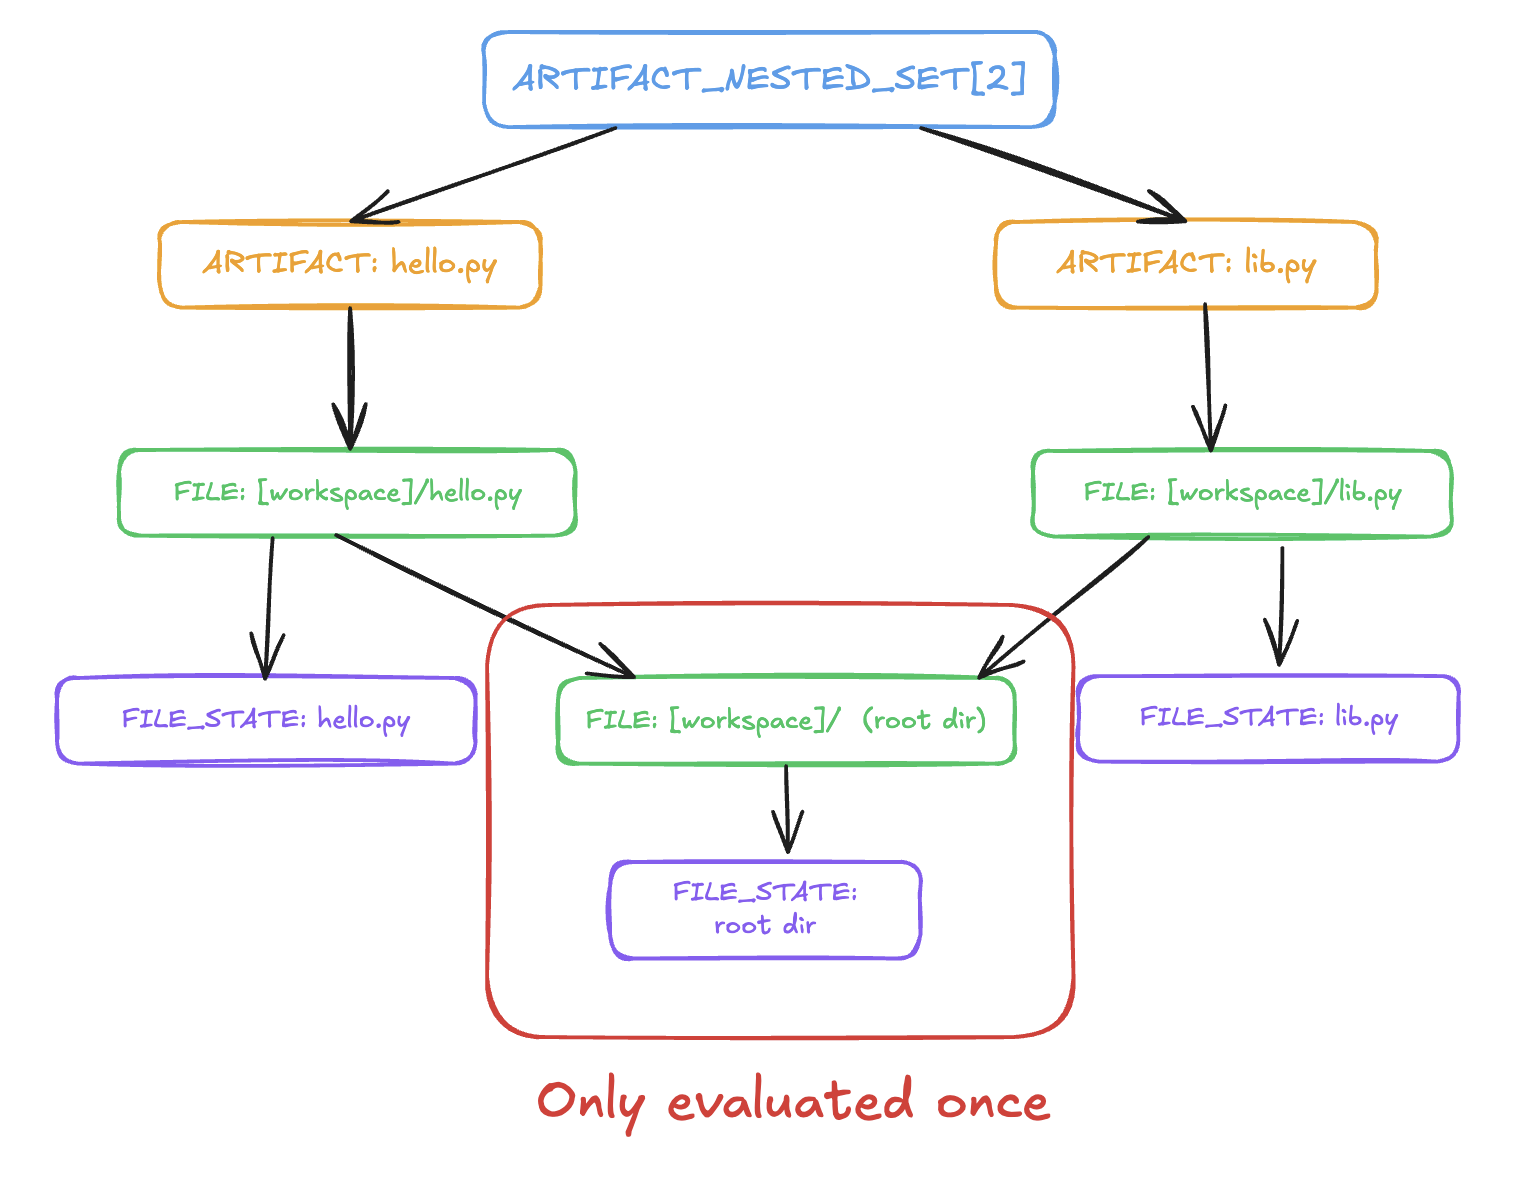
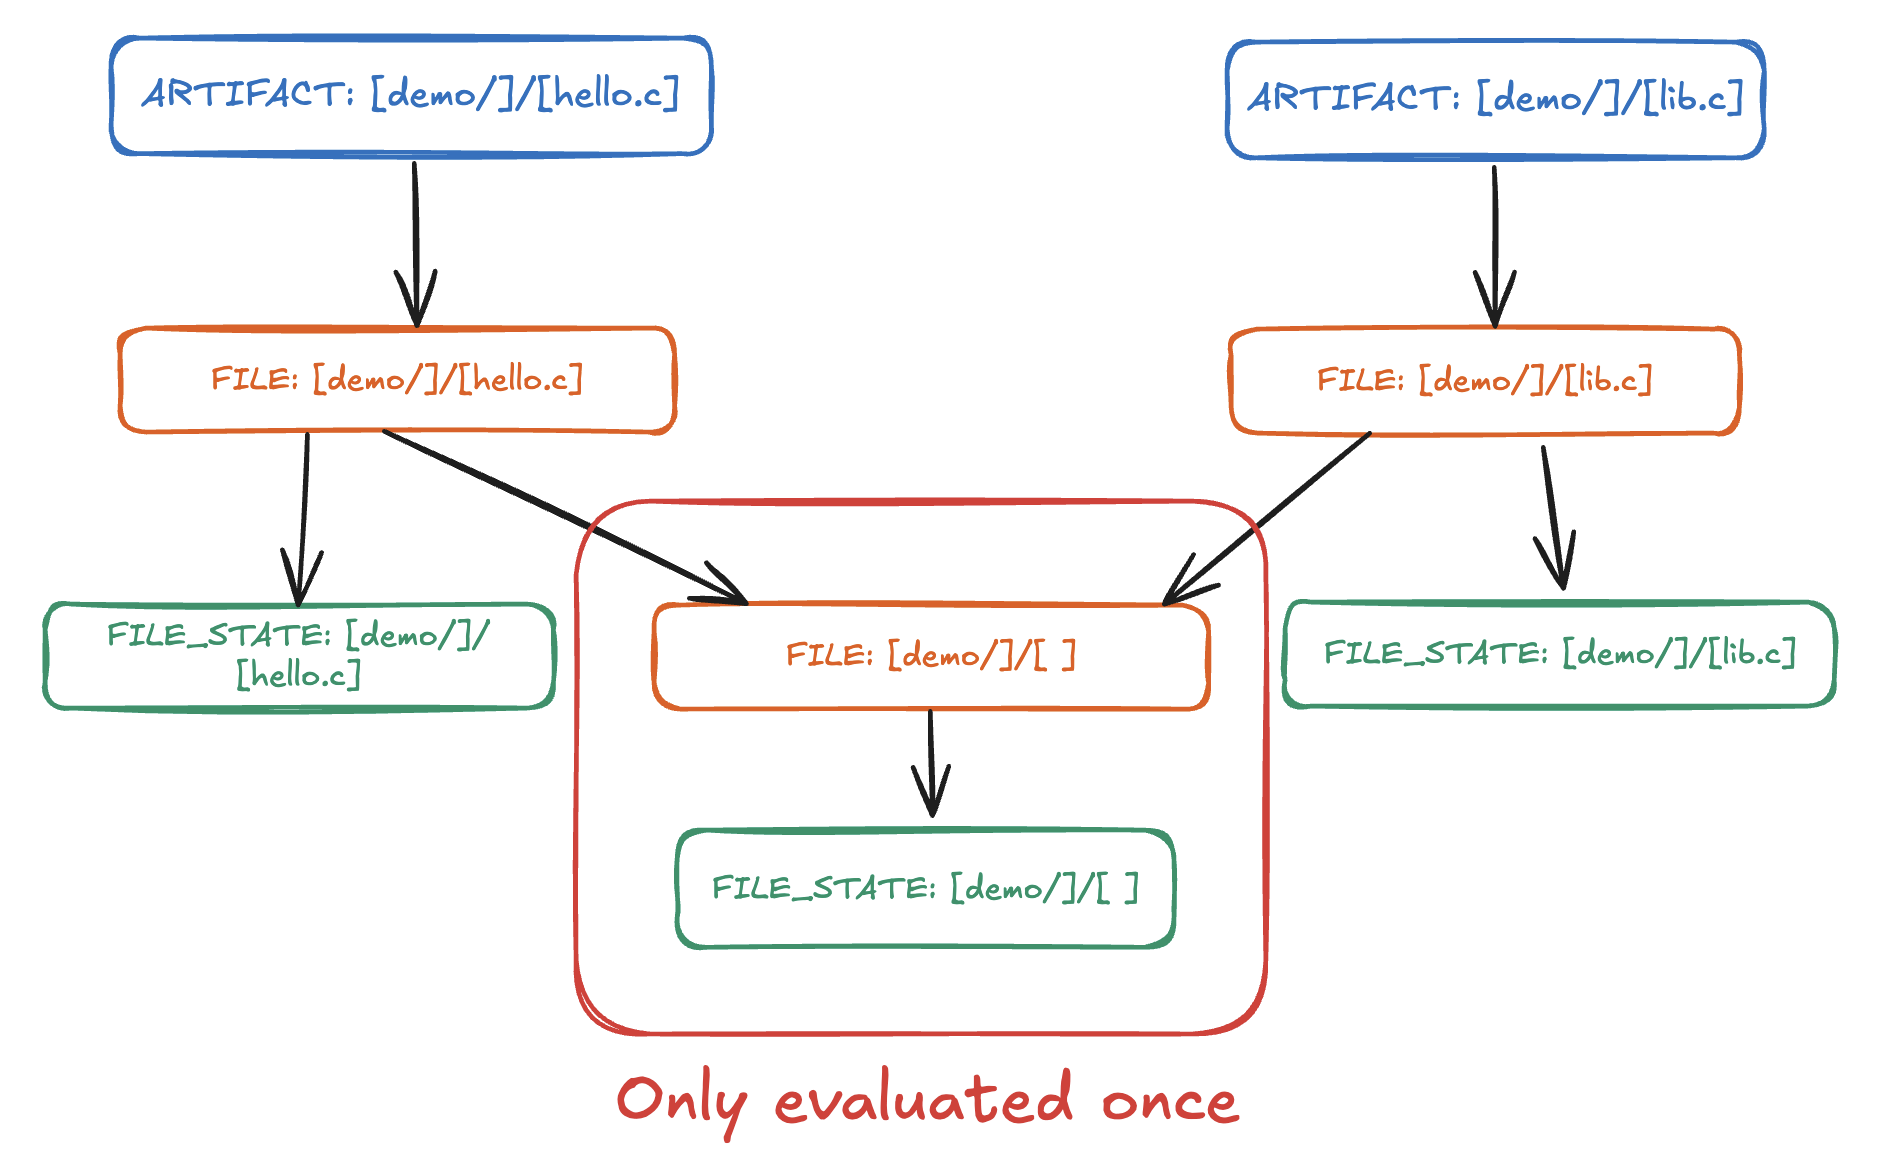
Use C version for Skyframe

Changed region(s): [[0.0, 0.0, 0.9817, 0.988]]

diff --git a/content/blog/2026-05-06-bazel-skyframe.md b/content/blog/2026-05-06-bazel-skyframe.md
@@ -6,7 +6,7 @@ title = 'Bazel Skyframe explained'
 
 <!-- https://excalidraw.com/#json=_Sqq8GAFYKdgnXSGdhCvn,0kM9YnXrRGWFhX0leKCNlQ -->
 
-The term "Skyframe" comes up often as you dig deeper into Bazel internals. However, I found the available explanations confusing and found myself re-reading the [Skyframe documentation](https://bazel.build/reference/skyframe) multiple times. I've looked around the source code just enough to get the essence of it, so this post summarizes what I've learned.
+The term "Skyframe" comes up often as you dig deeper into Bazel internals. However, the available explanations are pretty confusing and I found myself re-reading the [Skyframe documentation](https://bazel.build/reference/skyframe) multiple times. I've looked around the source code just enough to get the essence of it, so this post summarizes what I've learned.
 
 We'll explore what Skyframe is and how it's implemented (at a very high level). Basic Bazel knowledge is assumed. For the sake of simplicity, we'll just walk through the local machine worker scenario (no RBE).
 
@@ -24,43 +24,48 @@ BUILD files establish explicit DAG relationships between build targets. The fram
 
 **Incremental**
 
-Each node in the DAG is evaluated step by step, and the result is cached. Bazel has mechanisms to determine what changed since the last build and only rebuild those.
+Each node in the DAG is evaluated step by step, and the result is cached. Bazel has mechanisms to determine what changed since the last build and only rebuild those. In other words, the 2nd build is "incremental" relative to the cache of the 1st build.
 
 **Parallel**
 
-It's common for even a simple target to depend on hundreds of implicit dependencies. Running them sequentially is not an option for a build tool, so Skyframe evaluates independent nodes in parallel.
+It's common for even a simple target to depend on dozens of implicit dependencies. Building them sequentially is not an option for a build tool, so Skyframe evaluates independent nodes in parallel.
 
 Let's look at a hello world example to explore this further.
 
 ## Repo setup
 
-I prepared a demo Bazel repo here: https://github.com/jumbosushi/bazel-hello-world-py
+I prepared a demo Bazel repo here: https://github.com/jumbosushi/bazel-hello-world-c
 
-The only BUILD.bazel builds a `py_binary` target that depends on two files:
+The only BUILD.bazel builds a `cc_binary` target that depends on few files:
 ```txt
-load("@rules_python//python:py_binary.bzl", "py_binary")
+load("@rules_cc//cc:cc_binary.bzl", "cc_binary")
+load("@rules_cc//cc:cc_library.bzl", "cc_library")
 
-py_binary(
+cc_library(
+    name = "lib",
+    srcs = ["lib.c"],
+    hdrs = ["lib.h"],
+)
+
+cc_binary(
     name = "hello",
-    srcs = [
-        "hello.py",
-        "lib.py",
-    ],
+    srcs = ["hello.c"],
+    deps = [":lib"],
 )
 ```
 
 Here's what it looks like when you run it:
 ```txt
 $ bazel run //:hello
-INFO: Analyzed target //:hello (90 packages loaded, 3009 targets configured).
+INFO: Analyzed target //:hello (89 packages loaded, 534 targets configured).
 INFO: Found 1 target...
 Target //:hello up-to-date:
   bazel-bin/hello
-INFO: Elapsed time: 6.105s, Critical Path: 0.41s
-INFO: 9 processes: 9 internal.
-INFO: Build completed successfully, 9 total actions
+INFO: Elapsed time: 1.460s, Critical Path: 0.22s
+INFO: 14 processes: 10 internal, 4 darwin-sandbox.
+INFO: Build completed successfully, 14 total actions
 INFO: Running command line: bazel-bin/hello
-hello world!
+Hello World!
 ```
 
 Skyframe DAG is available from the following command:
@@ -68,7 +73,7 @@ Skyframe DAG is available from the following command:
 bazel dump --skyframe deps
 ```
 
-Even in this hello world example, the dump file is >160K lines. Here's a small subset of the graph that's related to the local files in the repo. We'll be using this subset starting with `ARTIFACT_NESTED_SET` to walk through how Skyframe might execute it:
+Even in this hello world example, the dump file is >60K lines. To make it more manageable, we'll be using this subset of the graph that's related to reading local files starting with `ARTIFACT` to walk through how Skyframe might execute it:
 
 ![Skyframe DAG subset](/images/2026-05-06-bazel-skyframe/dag-subset.png)
 
@@ -84,53 +89,61 @@ The way I understand it, Skyframe execution roughly consists of three components
 Each node in the graph wraps a SkyValue and is referenced by a SkyKey. The Evaluator uses the SkyKey's associated pure function (called a SkyFunction) to build the SkyValue. Every type of computation done by Skyframe is implemented as SkyFunction (there's [87 listed](https://cs.opensource.google/bazel/bazel/+/master:src/main/java/com/google/devtools/build/lib/skyframe/SkyFunctions.java;l=120;drc=8584d864876062a15dd11423717b0412f3d1fd8d?q=ARTIFACT_NESTED_SET&sq=&ss=bazel%2Fbazel) as of v9.0.0).
 
 The simplest SkyFunction I found was [`FileStateFunction`](https://cs.opensource.google/bazel/bazel/+/master:src/main/java/com/google/devtools/build/lib/skyframe/FileStateFunction.java;l=35?q=FileStateFunction&ss=bazel%2Fbazel) which essentially returns file content. To map to the definitions
-- SkyKey: `"FILE_STATE{/workspace/hello.py}"` (a pair of type & name)
-- SkyValue:  The file content of the given path at `/workspace/hello.py`
+- SkyKey: `"FILE_STATE{demo/hello.c}"` (a pair of type & name)
+- SkyValue:  The file content of the given path at `demo/hello.c`
 - SkyFunction: `FileStateFunction`
 
 A SkyFunction can also call other SkyFunctions (e.g., `ARTIFACT` calls `FILE` in our subgraph). In fact, when we call `bazel build //...`, Bazel passes the `//...` pattern to [TargetPatternPhaseFunction](https://cs.opensource.google/bazel/bazel/+/master:src/main/java/com/google/devtools/build/lib/skyframe/TargetPatternPhaseFunction.java) during the loading phase, which is the starting point for recursively constructing the DAG.
 
 ## Evaluation model
 
-Each build target and its dependencies are represented as DAG nodes. A node can be in one of three states: ready, waiting, and done. Each node also has a counter tracking how many dependencies it needs to wait for, which determines state transitions. When all dependencies are resolved and the counter is 0, the node is considered as `ready`. Evaluator enqueues the `ready` nodes to the Executor, then the Executor runs the node's SkyFunction `.compute()` method. The state then transitions to `done` after the `.compute()` call returns.
+Each build target and its dependencies are represented as DAG nodes. A node can be in one of three states: `READY`, `WAITING`, and `DONE`. Each node also has a counter tracking how many dependencies it needs to wait for, which determines state transitions. When all dependencies are resolved and the counter is 0, the node is considered as `READY`. Evaluator enqueues the `READY` nodes to the Executor, then the Executor runs the node's SkyFunction `.compute()` method. The state then transitions to `DONE` after the `.compute()` call returns.
 
-The interesting behavior in Skyframe is the "restart". On a first pass, a node might be evaluated but it may need to wait for its dependency to be evaluated first (e.g. symlink target needs to be resolved before the symlink itself). In this case, Skyframe sets the parent node state to `waiting`. When the dependency's state transitions to `done`, evaluator uses the reverse dependency edge to "signal" the parent which decrements the dependency counter. When the counter reaches 0, the parent node is enqueued again. Eventually, the parent node will "restart" and be evaluated again with complete dependencies available to run its own `.compute` step.
+The interesting behavior in Skyframe is the "restart". On a first pass, a node might be evaluated but it may need to wait for its dependency to be evaluated first (e.g. symlink target needs to be resolved before the symlink itself). In this case, Skyframe sets the parent node state to `WAITING`. When the dependency's state transitions to `DONE`, evaluator uses the reverse dependency edge to "signal" the parent which decrements the dependency counter. When the counter reaches 0, the parent node is enqueued again. Eventually, the parent node will "restart" and be evaluated again with complete dependencies available to run its own `.compute` step.
 
 This part is complicated! Let's try to examine this behavior in a simplified code.
 
 ## Simplified Python code
 
-I created a [skyframe.py gist](https://gist.github.com/jumbosushi/cdde35941cb4de3e73f8d157c9145253) that emulates the Skyframe execution model in a simplified way. From the example above, let's examine how a sub-graph from the `"FILE: [workspace]/lib.py"` node might be evaluated (in a single-threaded environment) using this code:
+I created a [skyframe.py gist](https://gist.github.com/jumbosushi/1e53dacfb765f2772f54e24db3909c3c) that emulates the Skyframe execution model in a simplified way. From the example above, let's examine how a sub-graph from the `"ARTIFACT"` node might be evaluated (in a single-threaded environment) using this code:
 ```txt
-...
-[5] FILE:/workspace/lib.py  [dequeued]
-      enqueued FILE_STATE:/workspace/lib.py
-      -> FILE:/workspace/lib.py is WAITING
-      waiting on 2 deps: [FILE:/workspace/, FILE_STATE:/workspace/lib.py]
-[6] FILE:/workspace/  [dequeued]
-      enqueued FILE_STATE:/workspace/
-      -> FILE:/workspace/ is WAITING
-      waiting on 1 deps: [FILE_STATE:/workspace/]
-...
-[8] FILE_STATE:/workspace/lib.py  [dequeued]
-      done: FileStateValue('/workspace/lib.py', content='bytes(/workspace/lib.py)')
-      signal FILE:/workspace/lib.py (1 remaining)
-[9] FILE_STATE:/workspace/  [dequeued]
-      done: FileStateValue('/workspace/', content='bytes(/workspace/)')
-      signal FILE:/workspace/ (0 remaining)
-      -> FILE:/workspace/ is READY (enqueued)
-[10] FILE:/workspace/  [dequeued]
-      done: FileValue('/workspace/')
-      signal FILE:/workspace/hello.py (0 remaining)
-      -> FILE:/workspace/hello.py is READY (enqueued)
-      signal FILE:/workspace/lib.py (0 remaining)
-      -> FILE:/workspace/lib.py is READY (enqueued)
+============================================================
+Evaluating ArtifactKey
+============================================================
+      enqueued ARTIFACT:hello.c
+[1] ARTIFACT:hello.c  [dequeued]
+      enqueued FILE:demo/hello.c
+      -> ARTIFACT:hello.c is WAITING
+      waiting on 1 deps: [FILE:demo/hello.c]
+[2] FILE:demo/hello.c  [dequeued]
+      enqueued FILE:demo/
+      enqueued FILE_STATE:demo/hello.c
+      -> FILE:demo/hello.c is WAITING
+      waiting on 2 deps: [FILE:demo/, FILE_STATE:demo/hello.c]
+[3] FILE:demo/  [dequeued]
+      enqueued FILE_STATE:demo/
+      -> FILE:demo/ is WAITING
+      waiting on 1 deps: [FILE_STATE:demo/]
+[4] FILE_STATE:demo/hello.c  [dequeued]
+      done: FileStateValue('demo/hello.c', content='bytes(demo/hello.c)')
+      signal FILE:demo/hello.c (1 remaining)
+[5] FILE_STATE:demo/  [dequeued]
+      done: FileStateValue('demo/', content='bytes(demo/)')
+      signal FILE:demo/ (0 remaining)
+      -> FILE:demo/ is READY (enqueued)
+[6] FILE:demo/  [dequeued]
+      done: FileValue('demo/')
+      signal FILE:demo/hello.c (0 remaining)
+      -> FILE:demo/hello.c is READY (enqueued)
+[7] FILE:demo/hello.c  [dequeued]
+      done: FileValue('demo/hello.c')
+      signal ARTIFACT:hello.c (0 remaining)
+      -> ARTIFACT:hello.c is READY (enqueued)
+[8] ARTIFACT:hello.c  [dequeued]
+      done: ArtifactValue('hello.c')
 ```
 
-The diagram below shows the state of a graph right after Step 9:
-![Skyframe execution trace](/images/2026-05-06-bazel-skyframe/execution-trace.png)
-
-Notice that on Step 10, `FILE_STATE:/workspace/` restarted after its dependencies were available. The restart behavior is also visible in the Python Evaluator class:
+Notice that on Step 8, `ARTIFACT:hello.c` restarted after its dependencies were available. The restart behavior is also visible in the Python Evaluator class:
 ```python
 # Code snippet from the python gist without the noise
 class Evaluator:
@@ -163,7 +176,7 @@ This evaluation model also explains why the action count in the CLI grows from 1
 
 ## Caching
 
-Because SkyKey is immutable and available globally in the graph, the same computation only executes once. In our sub-graph, `FILE:/workspace/` node has two incoming edges. Once its computation is done, parent nodes reuse the same SkyValue result.
+Because SkyKey is immutable and available globally in the graph, the same computation only executes once. In our sub-graph, `FILE:demo/` node has two incoming edges. Once its computation is done, parent nodes reuse the same SkyValue result.
 
 ![Skyframe caching](/images/2026-05-06-bazel-skyframe/caching.png)
 
@@ -172,7 +185,9 @@ As mentioned earlier, each of Bazel's execution phases has a corresponding SkyFu
 - Analysis: [ConfiguredTargetFunction](https://cs.opensource.google/bazel/bazel/+/master:src/main/java/com/google/devtools/build/lib/skyframe/ConfiguredTargetFunction.java;l=122?q=ConfiguredTargetFunction&ss=bazel%2Fbazel)
 - Execution:  [ActionExecutionFunction](https://cs.opensource.google/bazel/bazel/+/master:src/main/java/com/google/devtools/build/lib/skyframe/ActionExecutionFunction.java;l=137?q=ActionExecutionFunction&ss=bazel%2Fbazel) / [TargetCompletionFunction](https://cs.opensource.google/bazel/bazel/+/master:src/main/java/com/google/devtools/build/lib/skyframe/TargetCompletor.java;l=44?q=TargetCompletionFunction&ss=bazel%2Fbazel)
 
-Because each phase shares the same global graph and SkyFunctions compose each other, the cache is reused across phases as well (e.g., reading `hello.py` from the filesystem only once).
+Each phase builds on top of each other's Skyframe nodes. Because it shares the same global graph, the cache is reused across phases as well (e.g., reading `hello.c` from the filesystem only once). Here's a simplified version of how each phase creates different Skyframe nodes:
+
+![Skyframe phases](/images/2026-05-06-bazel-skyframe/build-phases.png)
 
 ## Incrementality
 
@@ -182,7 +197,46 @@ When a file is updated, Bazel marks the changed leaf `FileState` node as `CHANGE
 
 ![Change pruning](/images/2026-05-06-bazel-skyframe/change_prune.png)
 
-Note that this dirtiness state is tracked seprately from the evaluation state we saw earlier (e.g. `waiting`). If you're curious, [this blog post](https://jmmv.dev/2020/12/google-no-clean-builds.html) covers the file change detection more in depth.
+For example, this is what the initial build with [`--subcommands`](https://bazel.build/reference/command-line-reference#build-flag--subcommands) flag looks like for our C example:
+```txt
+$ bazel build --subcommands //...
+SUBCOMMAND: # cc_library rule target //:lib [action 'Compiling lib.c', configuration: 680dcaf1caca59c28bd4314128d3f53c6fa1ff268a38933011ddb444ea1ec37b, execution platform: @@platforms//host:host, mnemonic: CppCompile] ...
+INFO: Analyzed 2 targets (89 packages loaded, 534 targets configured).
+SUBCOMMAND: # cc_binary rule target //:hello [action 'Compiling hello.c', configuration: 680dcaf1caca59c28bd4314128d3f53c6fa1ff268a38933011ddb444ea1ec37b, execution platform: @@platforms//host:host, mnemonic: CppCompile] ...
+SUBCOMMAND: # cc_library rule target //:lib [action 'Linking liblib.a', configuration: 680dcaf1caca59c28bd4314128d3f53c6fa1ff268a38933011ddb444ea1ec37b, execution platform: @@platforms//host:host, mnemonic: CppArchive] ...
+SUBCOMMAND: # cc_binary rule target //:hello [action 'Linking hello', configuration: 680dcaf1caca59c28bd4314128d3f53c6fa1ff268a38933011ddb444ea1ec37b, execution platform: @@platforms//host:host, mnemonic: CppLink] ...
+INFO: Found 2 targets...
+INFO: Elapsed time: 1.498s, Critical Path: 0.22s
+INFO: 14 processes: 10 internal, 4 darwin-sandbox.
+INFO: Build completed successfully, 14 total actions
+```
+
+Notice that it ran four compile / link subcommands. I then update the C file to include a comment that will change the file node's state to `CHANGED`:
+```diff
+   #include <stdio.h>
+   #include "lib.h"
+
+++ // Test
+   int main(void) {
+       printf("%s!\n", greeting());
+       return 0;
+   }
+```
+
+When I build again, the change pruning kicks in. Only the action to compile `hello.c` runs, and once Skyframe verifies that the build output is the same it uses the result from the cache:
+
+```txt
+$ bazel build --subcommands //...
+INFO: Analyzed 2 targets (0 packages loaded, 0 targets configured).
+SUBCOMMAND: # cc_binary rule target //:hello [action 'Compiling hello.c', configuration: 680dcaf1caca59c28bd4314128d3f53c6fa1ff268a38933011ddb444ea1ec37b, execution platform: @@platforms//host:host, mnemonic: CppCompile] ...
+INFO: Found 2 targets...
+INFO: Elapsed time: 0.159s, Critical Path: 0.07s
+INFO: 2 processes: 1 action cache hit, 1 internal, 1 darwin-sandbox.
+INFO: Build completed successfully, 2 total actions
+```
+
+
+Note that this dirtiness state is tracked seprately from the evaluation state we saw earlier (e.g. `WAITING`). If you're curious, [this blog post](https://jmmv.dev/2020/12/google-no-clean-builds.html) covers the file change detection more in depth.
 
 ## Conclusion
 